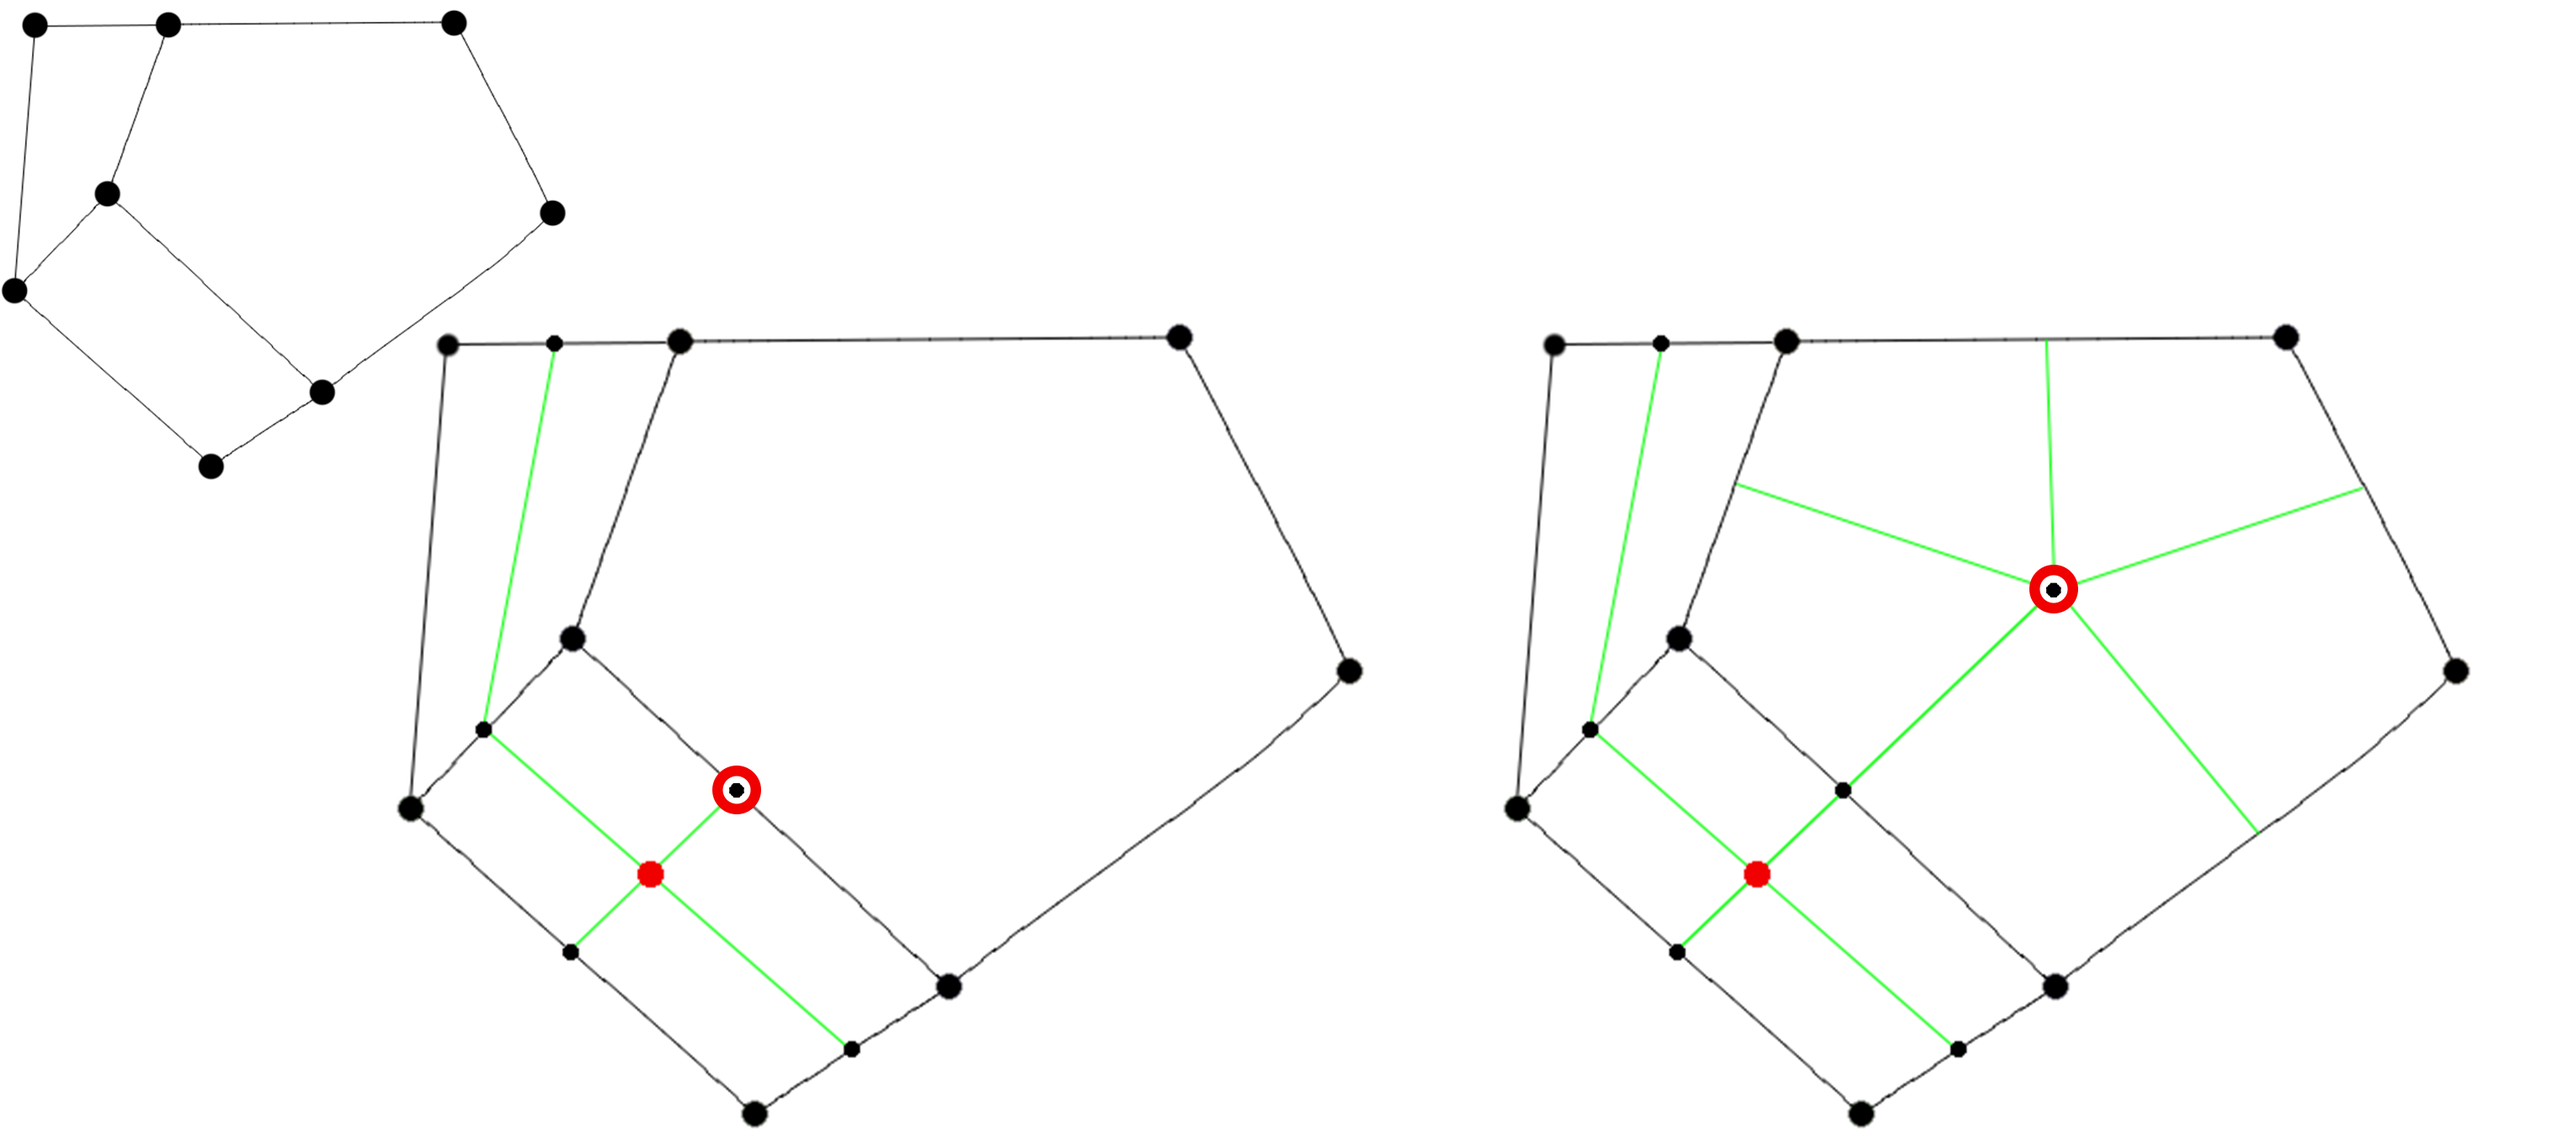
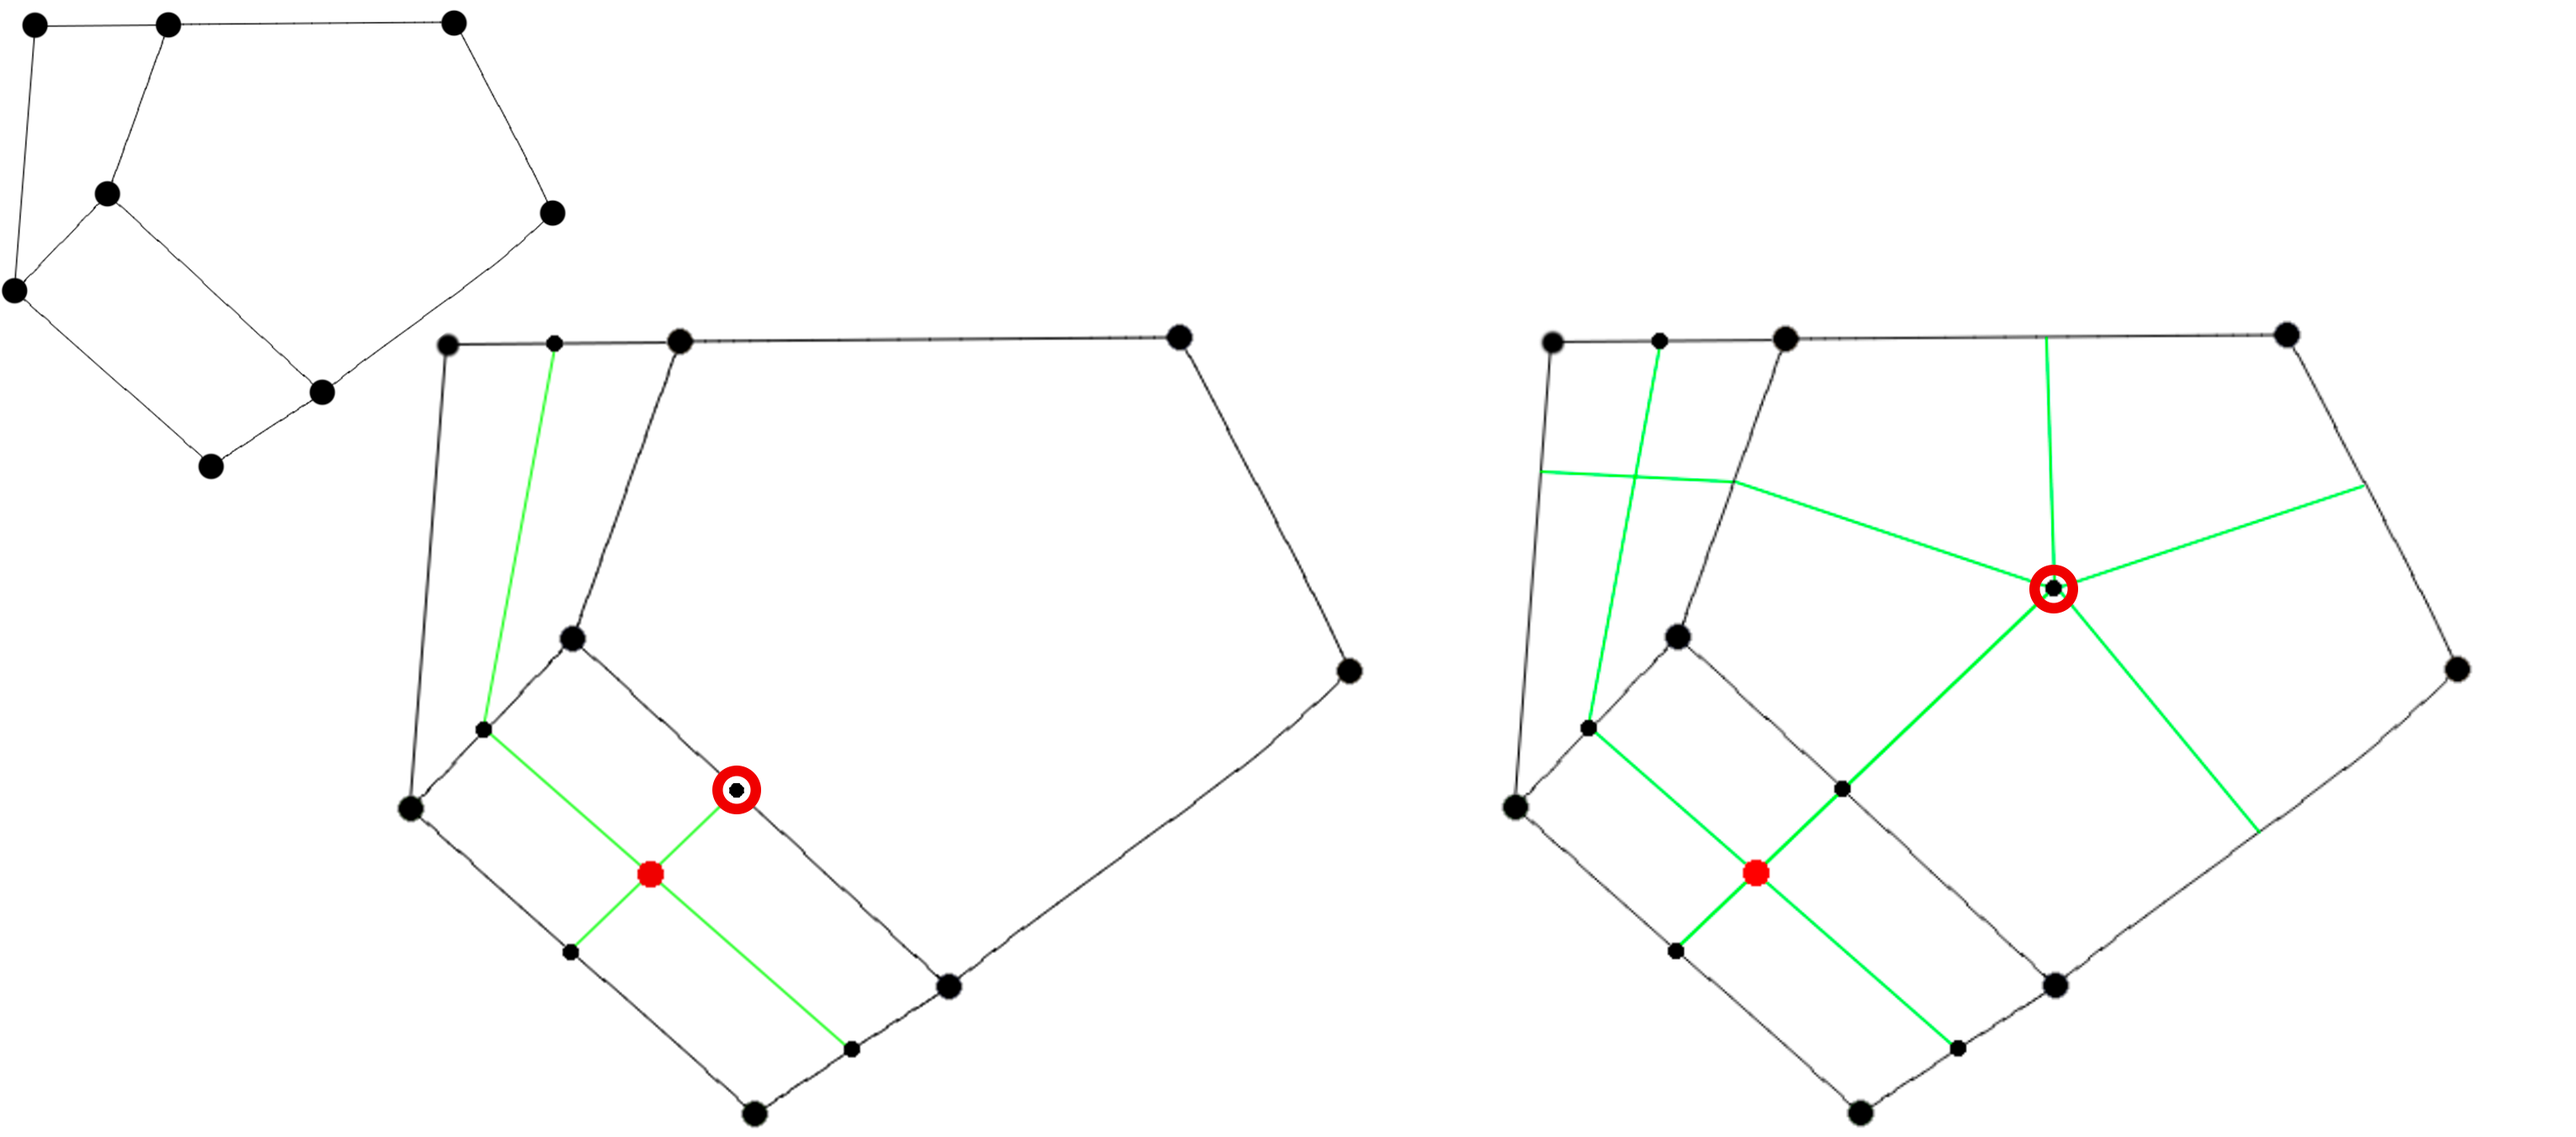
Updated teaser caption, to proposed text by Henrik, and updated pentagon image

diff --git a/Paper/NonRectangularGradientMesh.tex b/Paper/NonRectangularGradientMesh.tex
@@ -56,8 +56,7 @@
 	\teaser{
 		\centering
 		\includegraphics[width=0.8\linewidth]{teaserCombined.png}
-		\caption{New EG Logo}
-
+		\caption{Our gradient mesh tool (left) supports meshes of arbitrary topology, enabling users to create complex colour gradients (right) with shapes such as glasses.}
 		\label{fig:teaser}
 	 }
 	
